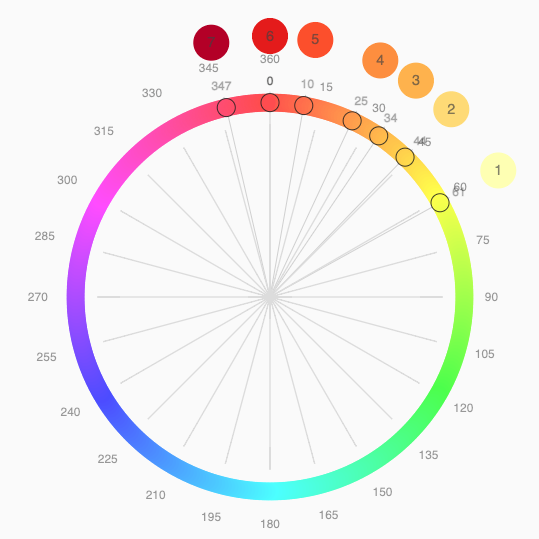
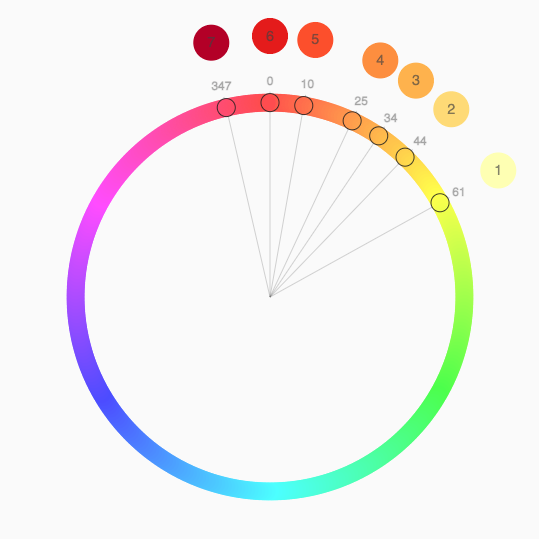
adds replacement image

diff --git a/moodle/comms/sg2047.colour.md b/moodle/comms/sg2047.colour.md
@@ -72,7 +72,7 @@ Let's think about a particular colour scheme that might be used to show data and
 We can show the _hues_ used in the colours as angles and positions on the colour wheel.
 
 <div style="align:center">
-<img src="https://jsndyks.github.io/sg2047/img/sg2047.colorWheel.YlOrRd.7.png" style="width:300px; padding:0.5em; border:1px solid #e0e0e0"/>
+<img src="https://jsndyks.github.io/sg2047/img/sg2047.colorWheel.seqential.YlOrBn.7.points.png" style="width:300px; padding:0.5em; border:1px solid #e0e0e0"/>
 </div>
 
 So **347** is just 13 / 360 _Hue_ increments, or _degrees_, different to zero! So, quite close, quite similar - just 4% of the way around the colour wheel from 0.
@@ -101,10 +101,16 @@ Those are two consistent encodings used in a single scheme, and probably both us
 
 Let's try to show _lightness_ on the colour wheel that we used to show the variations in _hue_.
 
-Here the _hues_ are shown on a colour wheel with three rings that show three different levels of _lightness_.
+We can represent, or _encode_ this with _position_. Here the _darker_ colours are closer to the centre of the wheel.
 
 <div style="align:center">
 <img src="https://jsndyks.github.io/sg2047/img/sg2047.colorWheel.YlOrRd.7.pointShift.png" style="width:300px; padding:0.5em; border:1px solid #e0e0e0"/>
+</div>
+
+Here the _hues_ are shown on a colour wheel with three rings that show three different levels of _lightness_.
+
+<div style="align:center">
+<img src="https://jsndyks.github.io/sg2047/img/sg2047.colorWheel.YlOrRd.7.wheels.png" style="width:300px; padding:0.5em; border:1px solid #e0e0e0"/>
 </div>
 
 ##### SATURATION
